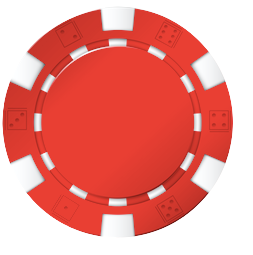
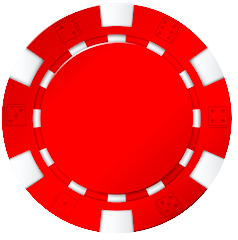
yellow and red chip have been re-uploaded. Images no longer cropped weird.

diff --git a/index.html b/index.html
@@ -35,7 +35,43 @@
             </div>
             <button id="deal-btn" class="deal-btn test hidden">Deal</button>
             <p id="player-amt"></p>
-            <div id="bank-modal" class="test bank-modal"></div>
+            <div id="bank-modal" class="test bank-modal">
+                <div id="one-chips-container" class="chips-container">
+                    <div class="chips one-chips one"></div>
+                    <div class="chips one-chips two"></div>
+                    <div class="chips one-chips three"></div>
+                    <div class="chips one-chips four"></div>
+                    <div class="chips one-chips five"></div>
+                </div>
+                <div id="twenty-five-chips-container" class="chips-container">
+                    <div class="chips twenty-five-chips one"></div>
+                    <div class="chips twenty-five-chips two"></div>
+                    <div class="chips twenty-five-chips three"></div>
+                    <div class="chips twenty-five-chips four"></div>
+                    <div class="chips twenty-five-chips five"></div>
+                </div>
+                <div id="fifty-chips-container" class="chips-container">
+                    <div class="chips fifty-chips one"></div>
+                    <div class="chips fifty-chips two"></div>
+                    <div class="chips fifty-chips three"></div>
+                    <div class="chips fifty-chips four"></div>
+                    <div class="chips fifty-chips five"></div>
+                </div>
+                <div id="hundred-chips-container" class="chips-container">
+                    <div class="chips hundred-chips one"></div>
+                    <div class="chips hundred-chips two"></div>
+                    <div class="chips hundred-chips three"></div>
+                    <div class="chips hundred-chips four"></div>
+                    <div class="chips hundred-chips five"></div>
+                </div>
+                <div id="five-hundred-chips-container">
+                    <div class="chips five-hundred-chips one"></div>
+                    <div class="chips five-hundred-chips two"></div>
+                    <div class="chips five-hundred-chips three"></div>
+                    <div class="chips five-hundred-chips four"></div>
+                    <div class="chips five-hundred-chips five"></div>
+                </div>
+            </div>
         </div>
         <script src="index.js"></script>
     </body>

diff --git a/index.js b/index.js
@@ -49,6 +49,9 @@ const playBtn = document.getElementById('play-btn');
 const dealBtn = document.getElementById('deal-btn');
 const frontPage = document.getElementById('front-page');
 const playModal = document.getElementById('play-modal');
+const bank = document.getElementById('bank-modal');
+const playerAmt = document.getElementById('player-amt');
+const cardAmt = document.getElementById('card-amt');
 
 const startingMoney = 2000;
 const startingDecks = 2;
@@ -59,8 +62,19 @@ let deck = new Deck(startingDecks);
 
 /* Functions */
 function displayCardNum(cardNum) {
-    const cardAmt = document.getElementById('card-amt');
     cardAmt.textContent += cardNum;
+}
+
+// Displays appropriate number of chips. For example, if a user only has $4, 4 $1 chips will be displayed and no others 
+function displayChips() {
+    
+}
+
+/* TODO
+   - Add chips
+   -      */
+function displayBank() {
+    playerAmt.textContent = `$${player.money}`;
 }
 
 async function startGame() {
@@ -72,14 +86,6 @@ async function startGame() {
     await deck.initDeck();
     dealBtn.classList.remove('hidden');
     displayCardNum(deck.cardsRemaining);
-}
-
-/* TODO
-   - Add chips
-   -      */
-function displayBank() {
-    const bank = document.getElementById('bank-modal');
-    bank.textContent = `$${player.money}`;
 }
 
 /* Event Handlers */

diff --git a/style.css b/style.css
@@ -150,9 +150,6 @@ body {
 }
 
 #player-amt {
-    /* Temporary */
-    display: none;
-
     align-self: flex-start;
     width: 20%;
     height: 15%;
@@ -160,11 +157,71 @@ body {
     background: yellow;
 }
 
+/* Bank */
 .bank-modal {
     width: 100%;
     height: 20vh;
     min-height: 100px;
-    background: blue;
+    background: darkgreen;
+
+    display: flex;
+    flex-direction: row;
+    justify-content: center;
+    gap: 1em;
+}
+
+.one-chips {
+    background: url('images/chips/black-chip.png');
+}
+
+.twenty-five-chips {
+    background: url('images/chips/blue-chip.png');
+}
+
+.fifty-chips {
+    background: url('images/chips/green-chip.png');
+}
+
+.hundred-chips {
+    background: url('images/chips/red-chip.png');
+}
+
+.five-hundred-chips {
+    background: url('images/chips/yellow-chip.png');
+}
+
+.chips {
+    height: 40px;
+    width: 40px;
+
+    background-size: contain;
+    background-repeat: no-repeat;
+    object-fit: scale-down;
+    margin-bottom: -40px;
+}
+
+.one {
+    margin-left: -3px;
+}
+
+.two {
+    margin-left: -5px;
+    transform: rotate(15deg);
+}
+
+.three {
+    margin-left: -7px;
+    transform: rotate(45deg);
+}
+
+.four {
+    margin-left: -9px;
+    transform: rotate(90deg);
+}
+
+.five {
+    margin-left: -11px;
+    transform: rotate(180deg);
 }
 
 .hidden {
